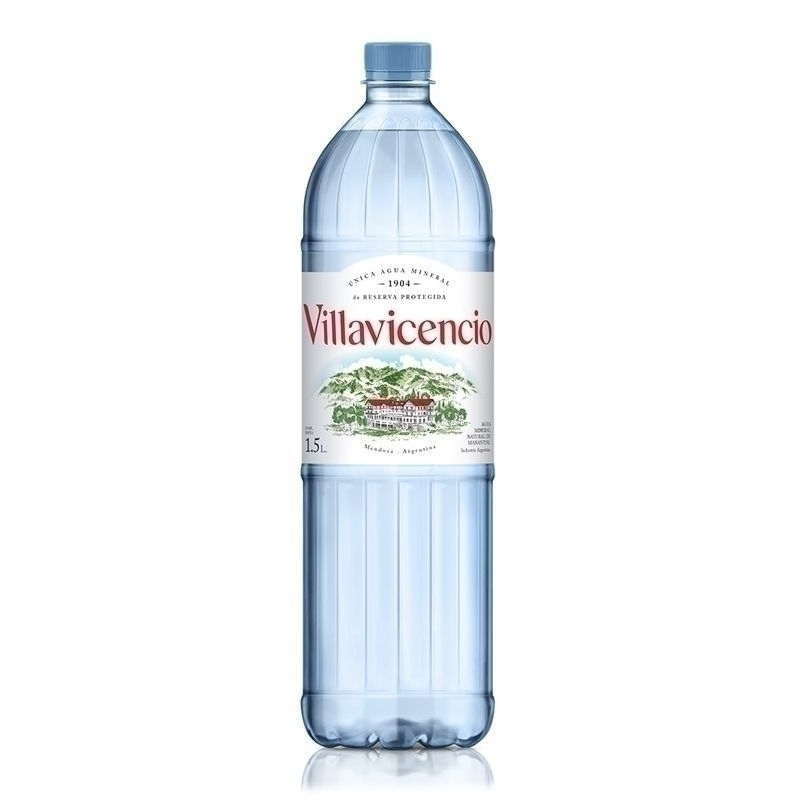
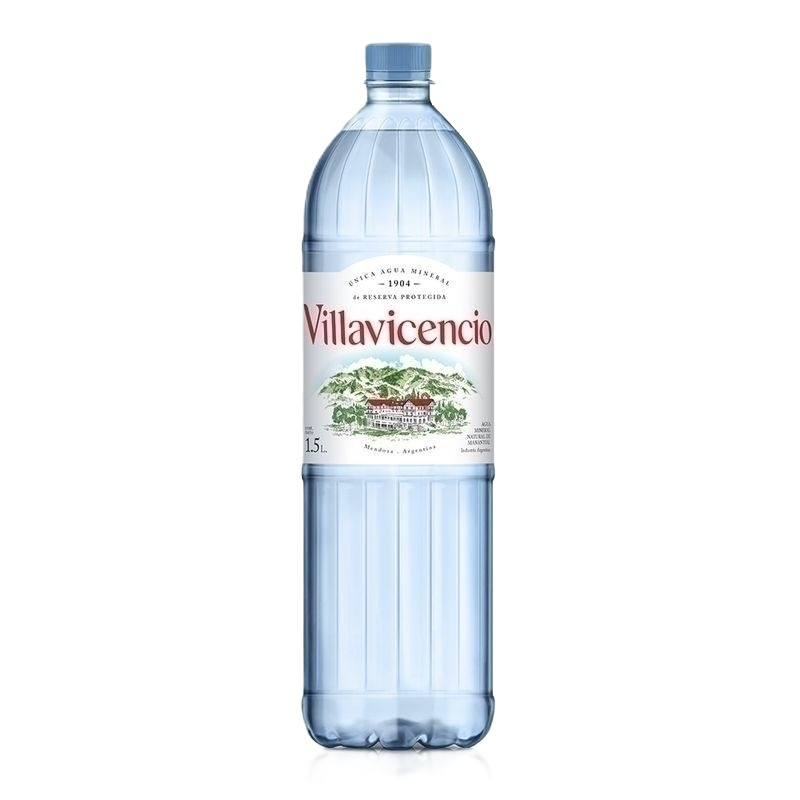
se modificaron imagenes del Home para que quede bien el Blur

diff --git a/index.html b/index.html
@@ -72,7 +72,7 @@
                     <a href="./template/Productos.html">
                         <div class="card">
                             <picture>
-                                <img src="./Static/img/aceite-oliva.webp" alt="aceite-oliva">
+                                <img src="./Static/img/aceite-oliva1.png" alt="aceite-oliva">
                             </picture>
                             <p>Aceite de Oliva</p>
                             <p>Llevando 3 pagas 2</p>
@@ -83,7 +83,7 @@
                     <a href="./template/Productos.html">
                         <div class="card">
                             <picture>
-                                <img src="./Static/img/pure-de-tomate.jpg" alt="pure-de-tomate">
+                                <img src="./Static/img/pure-de-tomate1.png" alt="pure-de-tomate">
                             </picture>
                             <p>Pure de Tomate</p>
                             <p>25% de descuento en la 2° unidad</p>
@@ -94,7 +94,7 @@
                     <a href="./template/Productos.html">
                         <div class="card">
                             <picture>
-                                <img src="./Static/img/polenta-presto-pronta.jpg" alt="polenta-presto-pronta">
+                                <img src="./Static/img/polenta-presto-pronta1.png" alt="polenta-presto-pronta">
                             </picture>
                             <p>Polenta Presto Pronta</p>
                             <p>¡Precios Cuidados!</p>
@@ -105,7 +105,7 @@
                     <a href="./template/Productos.html">
                         <div class="card">
                             <picture>
-                                <img src="./Static/img/Agua-Mineral-De-Manantial-Sin-Gas-villavicencio.jpg"
+                                <img src="./Static/img/Agua-Mineral-De-Manantial-Sin-Gas-villavicencio1.png"
                                     alt="Agua-Mineral-De-Manantial-Sin-Gas-villavicencio">
                             </picture>
                             <p>Agua mineral</p>
@@ -117,7 +117,7 @@
                     <a href="./template/Productos.html">
                         <div class="card">
                             <picture>
-                                <img src="./Static/img/cafe-la-virginia.webp" alt="cafe-la-virginia">
+                                <img src="./Static/img/cafe-la-virginia1.png" alt="cafe-la-virginia">
                             </picture>
                             <p>Cafe La Virginia</p>
                         </div>
@@ -127,7 +127,7 @@
                     <a href="./template/Productos.html">
                         <div class="card">
                             <picture>
-                                <img src="./Static/img/queso-parmesamo.jpg" alt="queso-parmesamo">
+                                <img src="./Static/img/queso-parmesamo1.png" alt="queso-parmesamo">
                             </picture>
                             <p>Queso Parmesano</p>
                         </div>
